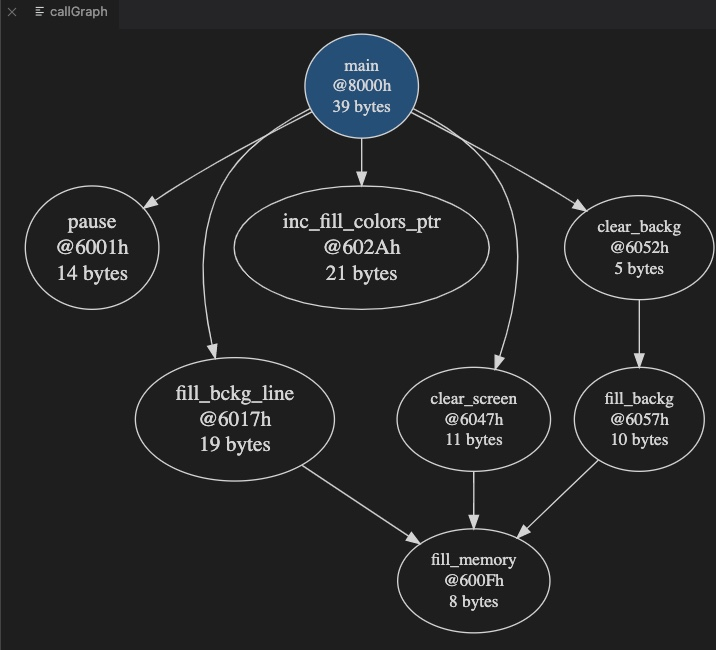
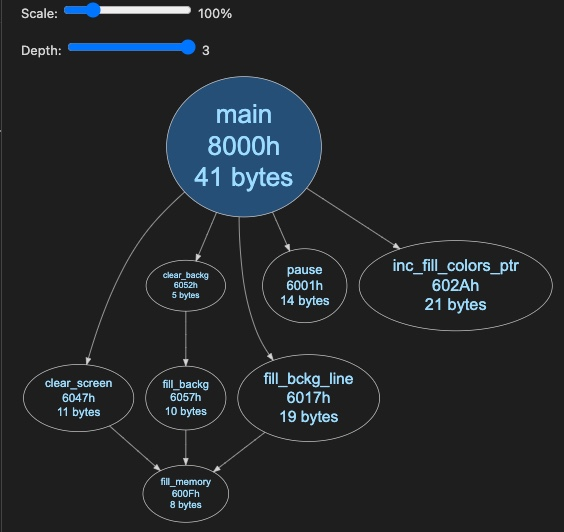
More documentation.

diff --git a/documentation/ReverseEngineeringUsage.md b/documentation/ReverseEngineeringUsage.md
@@ -136,7 +136,10 @@ For all of these features:
 Start Dezog, place the cursor at the source code at some instruction and do a right click for "Analyze at Cursor":
 ![](images/ReverseEngineeringUsage/analyze_at_cursor.jpg)
 
-The examples below use the [z80-sample-program](https://github.com/maziac/z80-sample-program).
+Note: It depends a little bit on the assembly parser that is used. Some DeZog parsers allow a disassembly directly from a line with a label, others require that there is also an assembler instruction on that line.
+If you get a note in the DEBUG CONSOLE like this: ```Error: No address found at line.``` than re-try by right-clicking directly over an assembler instruction.
+
+The examples below use the [z80-sample-program](https://github.com/maziac/z80-sample-program) assembled for the ZX 48K.
 
 
 ## Call Graph
@@ -169,6 +172,8 @@ Here is a more advanced call graph from the main routine:
 
 At the top of the call graph you also find a slider to adjust the shown call graph depth.
 
+
+
 ## Flow Chart
 
 Here is the flow chart for the same subroutine:
@@ -176,6 +181,35 @@ Here is the flow chart for the same subroutine:
 
 And here another flowchart of the main routine:
 ![](images/ReverseEngineeringUsage/flowchart_main.jpg)
+
+
+## Smart Disassembly
+
+The smart disassembly will follow the execution flow from the given address and visualize the calls and jumps with arrows.
+
+A smart disassembly of the *main_loop* of the z80-sample-program looks like this:
+![](images/ReverseEngineeringUsage/smart_disassembly_arrows.gif)
+
+I.e. you will automatically find also the referenced *fill_bckg_line* and *inc_fill_colors_ptr* disassembled.
+
+The disassembly also contains the referenced data of that subroutine (and referenced sub-subroutines).
+I.e. also for self-developed code you can easily see which memory it references.
+
+If labels already exist those names are re-used. If labels do not exist yet a name will be "invented".
+
+In theory, if you would do a smart disassembly of the entry point of your program  (e.g. the *main* routine), you'd get a disassembly of the whole program.
+Of course, in practice, not all code is reachable from a static analysis-
+E.g. the interrupt routine or any "JP (HL)" or self-modified jumps cannot be followed/disassembled.
+
+Here is a picture of a more complex sample code:
+![](images/ReverseEngineeringUsage/smart_disassembly_complex.jpg)
+
+The jumps are visualized through arrows. Backward (loop) jumps inside the same subroutine can be found on the left.
+Forward jumps on the right.
+Any call offers a little arrow. If hovered-over it animates an arrow to the called subroutine.
+(Note: If the called routine is in another slot and it is not 100% sure that the code in the slot is the correct code (it might have paged in a wrong bank at the time of disassembly) than only the call address is shown without arrow.)
+
+At the top you find a slider with which you can control the call-depth of the disassembly.
 
 
 ## Selection
@@ -188,30 +222,18 @@ Flow chart example:
 Call graph example:
 ![](images/ReverseEngineeringUsage/callgraph_selection.gif)
 
+Smart disassembly example:
+![](images/ReverseEngineeringUsage/smart_disassembly_selection.gif)
+
 Note:
 The selection does work only on code for which a disassembly or a source file exists. If e.g. the disassembly shows too less code you might need to do a "smart disassembly" first and put that in your reverse engineered list file.
 
 Hint:
-If the flow chart or call graph is hidden once you do a selection then please enable the following vscode setting:
+If the flow chart, call graph or smart disassembly is hidden once you do a selection then please enable the following vscode setting:
 ~~~
 editor.revealIfOpen
 ~~~
 ![](images/ReverseEngineeringUsage/analyze_reveal_if_open.jpg)
-
-
-## Smart Disassembly
-
-The smart disassembly will follow the execution flow from the given address and visualize the calls and jumps with arrows.
-
-A smart disassembly of the above *fill_bckg_line* looks like this:
-// TODO: new animated gif
-![](images/ReverseEngineeringUsage/smart_disassembly_fill_bckg_line.jpg)
-
-I.e. you will automatically find also the *fill_memory* disassembled because it it referenced in *fill_bckg_line*.
-
-If you'd do the same for the *main* routine you'd get a disassembly of the whole program.
-
-If labels already exist those names are re-used. If labels do not exist yet a name will be "invented".
 
 
 ## Note
